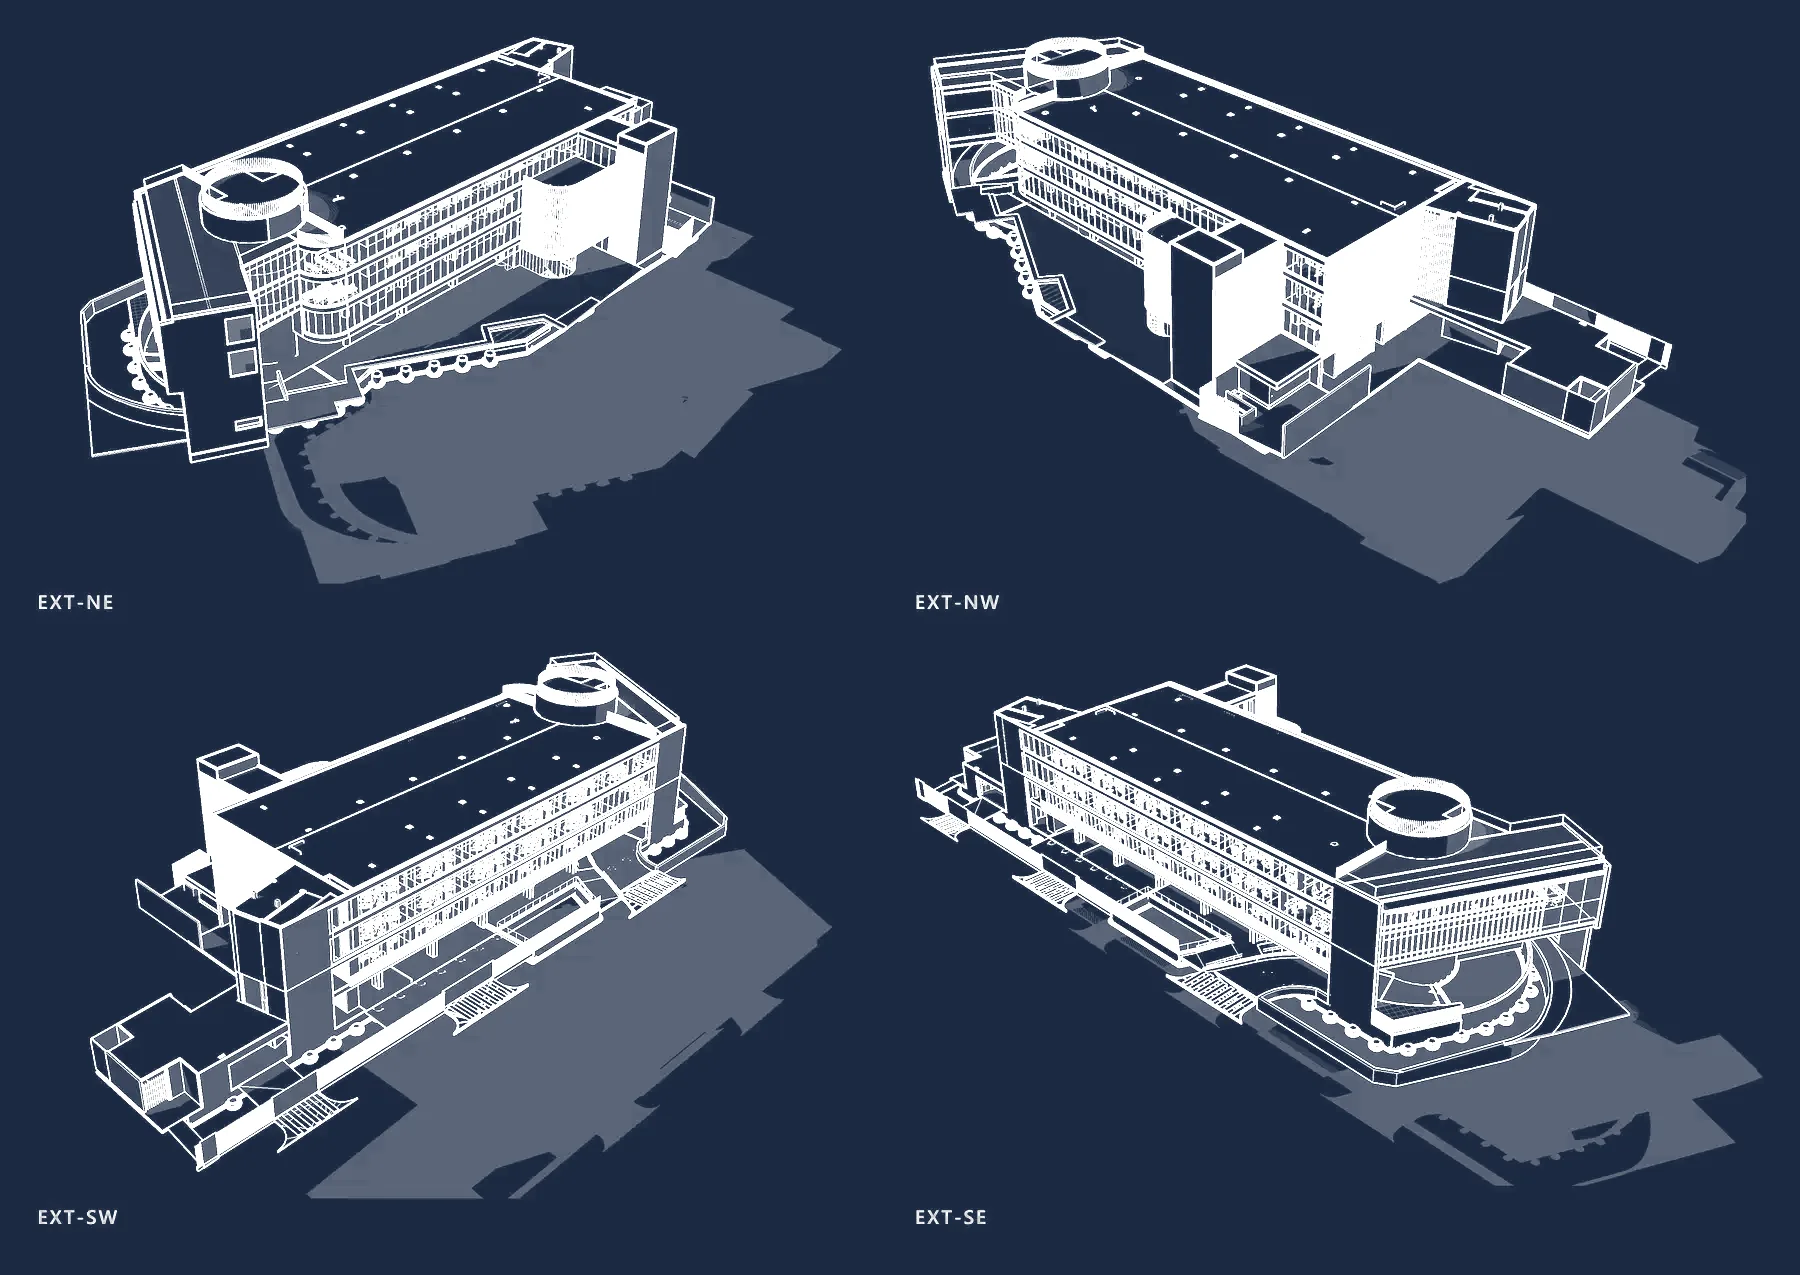
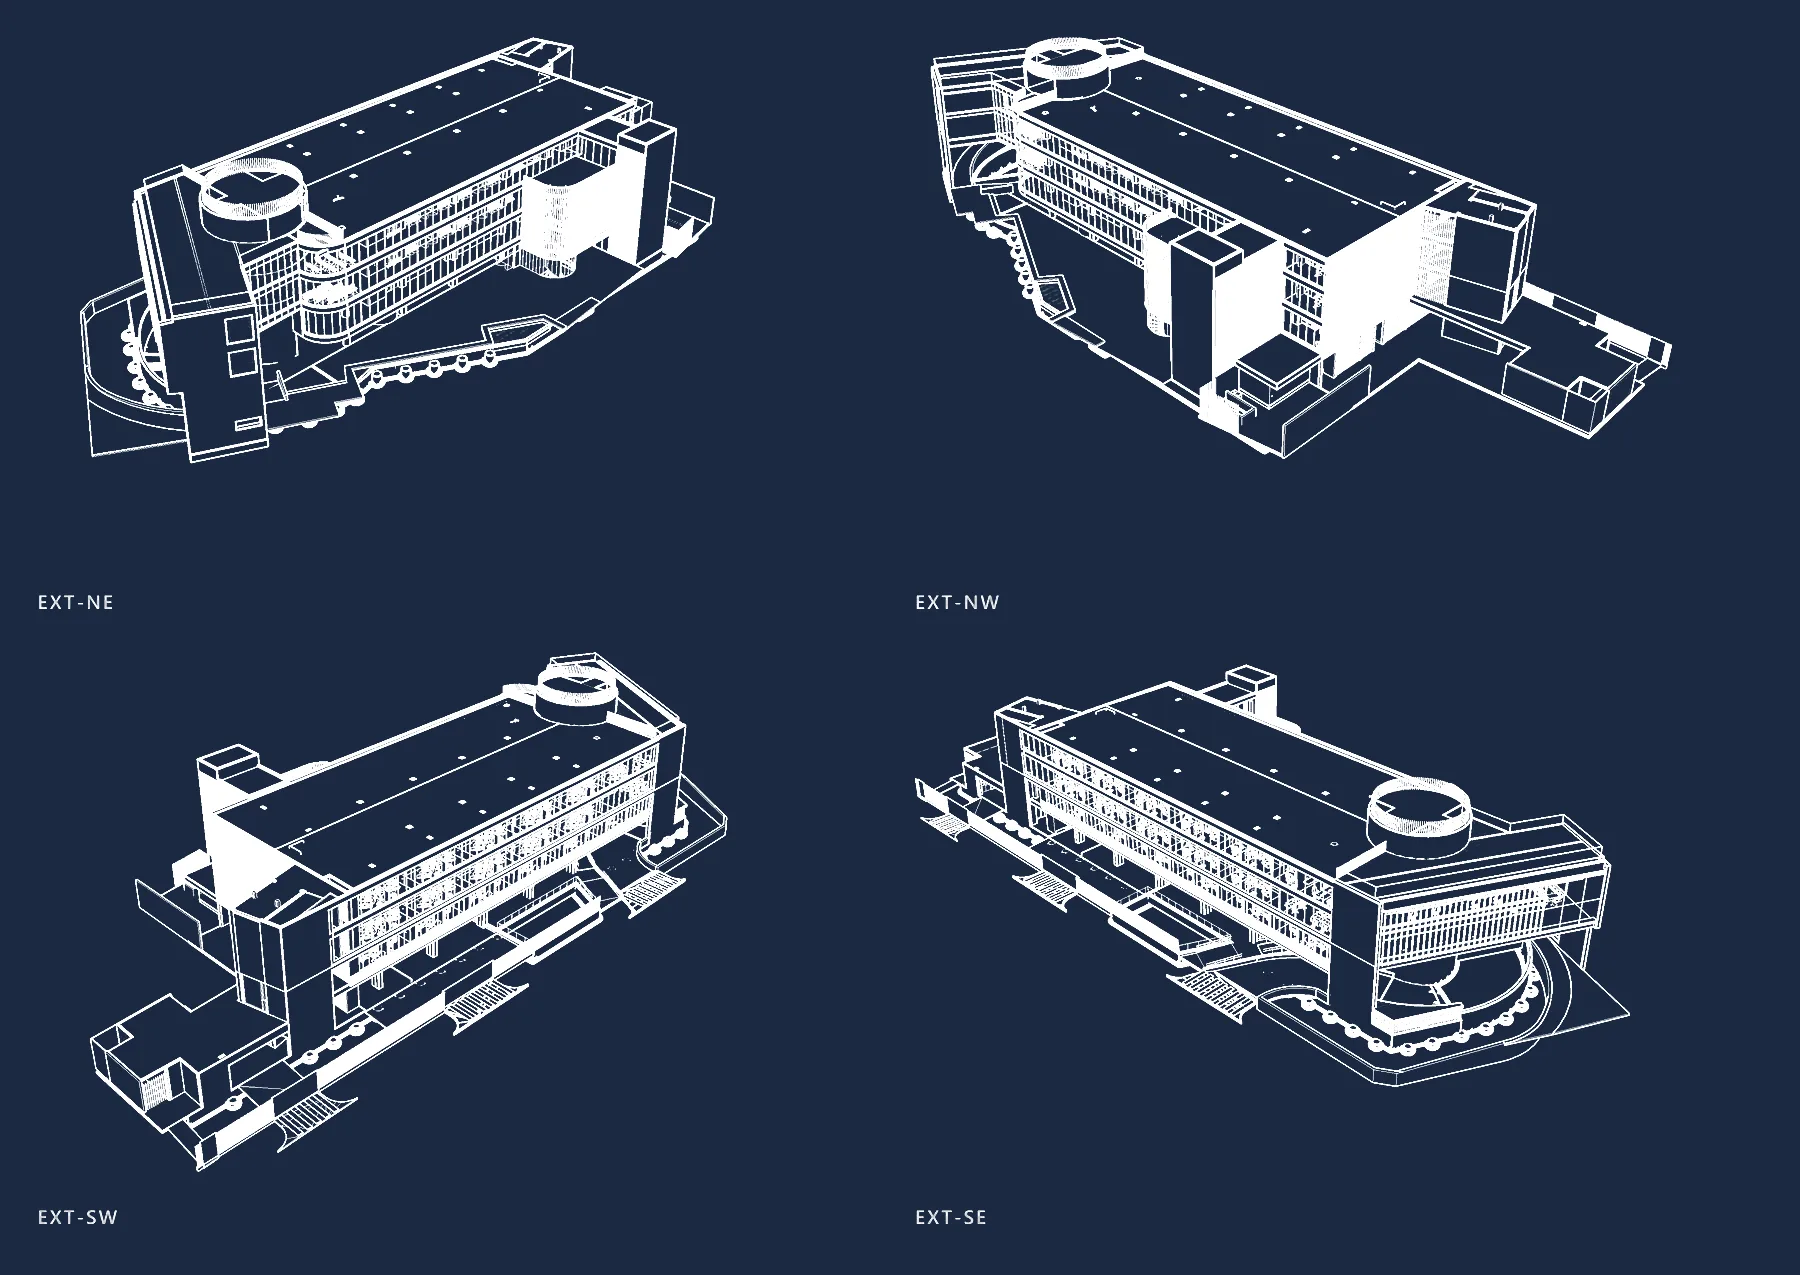
INO4: quitar sombras del plano horizontal en las imágenes
fondo-azul.js gana la opción sinSombras (umbral de luminancia 0,85): los
grises claros de las sombras pasan a fondo azul. Imágenes de clinica
reprocesadas desde la versión blanca anterior. SCFA sin cambios.

Claude-Session: https://claude.ai/code/session_01Dnq6nJeuR1o8e4q3ZrPM81

diff --git a/tools/brandkit/fondo-azul.js b/tools/brandkit/fondo-azul.js
@@ -2,7 +2,11 @@
 // fondo azul --primary (#1A2942), arquitectura (línea gris/negra) en blanco y
 // el color de la especialidad (p. ej. el verde de corrientes débiles) se conserva.
 //
-//   node fondo-azul.js <archivo.webp> [...]      reescribe los archivos en su lugar
+//   node fondo-azul.js [--sin-sombras] <archivo.webp> [...]   reescribe los archivos en su lugar
+//
+// --sin-sombras (o `{ sinSombras: true }`): los grises claros, como las sombras que Revit
+// proyecta sobre el plano horizontal, pasan a fondo azul en vez de verse como una mancha.
+// Usar solo en vistas de arquitectura; en las de especialidad la arquitectura tenue es gris claro.
 //
 // También se exporta `aAzul(buffer)` para que laminas.js lo aplique al componer.
 // El CLI omite las imágenes cuya esquina ya no es blanca, para no invertirlas dos veces.
@@ -16,7 +20,10 @@ const BLANCO = [255, 255, 255];
 // vistas de especialidad) sin saturar los sombreados de las vistas de arquitectura.
 const curva = (v) => Math.pow(Math.min(1, v * 2.2), 0.85);
 
-async function aAzul(input) {
+// Luminancia desde la que un gris se considera sombra (~217/255; las sombras de INO4 rondan 229)
+const UMBRAL_SOMBRA = 0.85;
+
+async function aAzul(input, { sinSombras = false } = {}) {
   const { data, info } = await sharp(input).flatten({ background: "#ffffff" })
     .removeAlpha().raw().toBuffer({ resolveWithObject: true });
   const out = Buffer.alloc(data.length);
@@ -28,7 +35,8 @@ async function aAzul(input) {
     const lum = (0.2126 * r + 0.7152 * g + 0.0722 * b) / 255;
 
     // parte neutra: blanco → azul, gris/negro → blanco
-    const t = curva(1 - lum);
+    const v = sinSombras ? Math.max(0, (UMBRAL_SOMBRA - lum) / UMBRAL_SOMBRA) : 1 - lum;
+    const t = curva(v);
     // peso del color de especialidad: 0 en grises, 1 en colores francos
     const c = Math.min(1, Math.max(0, (croma - 12) / 50));
 
@@ -44,7 +52,9 @@ module.exports = { aAzul, AZUL: "#1a2942" };
 
 if (require.main === module) {
   (async () => {
-    for (const archivo of process.argv.slice(2)) {
+    const args = process.argv.slice(2);
+    const sinSombras = args.includes("--sin-sombras");
+    for (const archivo of args.filter((a) => a !== "--sin-sombras")) {
       const { data } = await sharp(archivo).extract({ left: 0, top: 0, width: 1, height: 1 })
         .removeAlpha().raw().toBuffer({ resolveWithObject: true });
       if (data[0] < 240 || data[1] < 240 || data[2] < 240) {
@@ -53,7 +63,7 @@ if (require.main === module) {
       }
       const meta = await sharp(archivo).metadata();
       const calidad = meta.width <= 900 ? 80 : 82;
-      const buf = await (await aAzul(archivo)).webp({ quality: calidad }).toBuffer();
+      const buf = await (await aAzul(archivo, { sinSombras })).webp({ quality: calidad }).toBuffer();
       fs.writeFileSync(archivo, buf);
       console.log(`azul        ${archivo}`);
     }

diff --git a/tools/brandkit/laminas.js b/tools/brandkit/laminas.js
@@ -48,7 +48,7 @@ const etiqueta = (x, y, texto) =>
   // portada: una sola vista, a resolución completa
   if (CFG.portada) {
     const buf = await vista(CFG.portada);
-    const azul = await (await aAzul(buf)).png().toBuffer();
+    const azul = await (await aAzul(buf, { sinSombras: CFG.sinSombras })).png().toBuffer();
     await sharp(azul).resize({ width: 1800, withoutEnlargement: true }).webp({ quality: 82 })
       .toFile(path.join(OUT_IMG, "portada.webp"));
     console.log(`portada     ${CFG.portada}`);
@@ -78,7 +78,7 @@ const etiqueta = (x, y, texto) =>
 
     const base = `lam-${String(i + 1).padStart(2, "0")}`;
     const hoja = await sharp({ create: { width: W, height: H, channels: 3, background: "#ffffff" } })
-      .composite(capas).png().toBuffer().then(async (b) => (await aAzul(b)).png().toBuffer());
+      .composite(capas).png().toBuffer().then(async (b) => (await aAzul(b, { sinSombras: CFG.sinSombras })).png().toBuffer());
 
     await sharp(hoja).resize({ width: 1800 }).webp({ quality: 82 }).toFile(path.join(OUT_IMG, `${base}.webp`));
     await sharp(hoja).resize({ width: 900 }).webp({ quality: 80 }).toFile(path.join(OUT_IMG, `${base}-thumb.webp`));

diff --git a/CLAUDE.md b/CLAUDE.md
@@ -55,7 +55,9 @@ El JSON define origen, portada y qué vistas van en cada lámina; el script reco
 de cada PNG, las compone sobre fondo blanco, rotula el código y escribe `src/data/<slug>.json`
 más `portada.webp`. Al final pasa todo por `fondo-azul.js`: fondo `--primary`, arquitectura en
 blanco y el color de la especialidad intacto (`node fondo-azul.js <archivo.webp>` lo aplica a
-imágenes ya exportadas; omite las que ya no tienen fondo blanco). `proyecto-imagenes.js` sigue sirviendo para exportar vistas sueltas, pero
+imágenes ya exportadas; omite las que ya no tienen fondo blanco). Con `"sinSombras": true` en el
+JSON (o `--sin-sombras` en el CLI) las sombras grises del plano horizontal pasan a fondo; se usa en
+`clinica`, no en `scfa`, donde la arquitectura tenue es justamente gris claro. `proyecto-imagenes.js` sigue sirviendo para exportar vistas sueltas, pero
 el sitio consume las láminas.
 
 ### Logotipos de cliente
